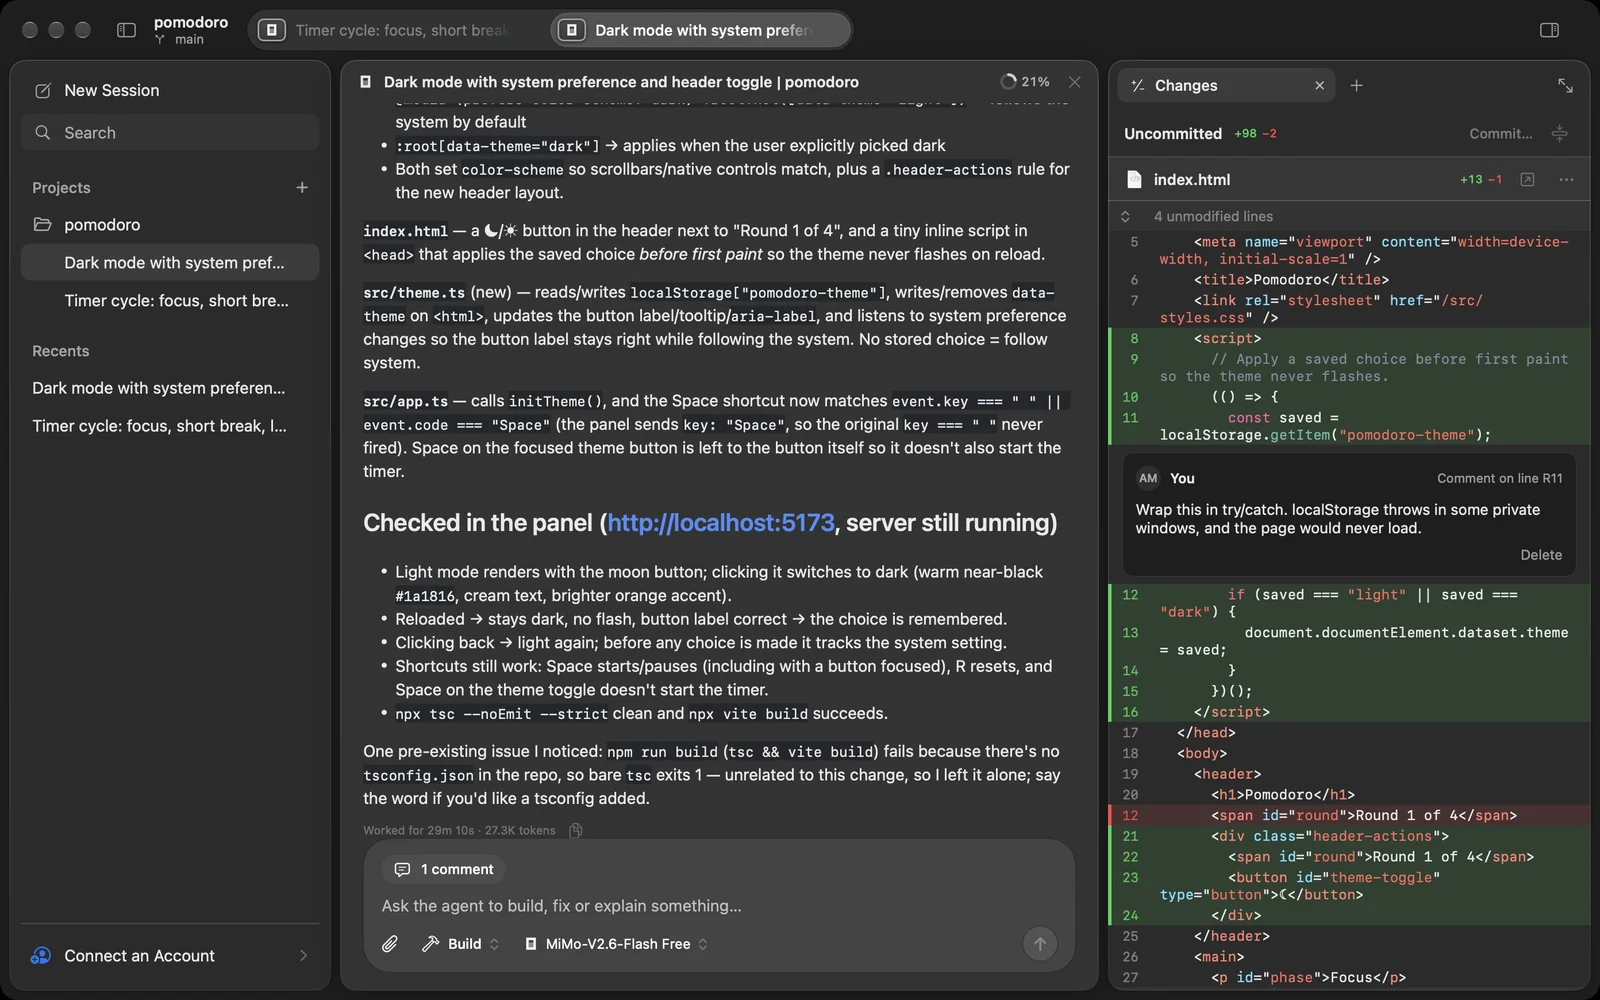
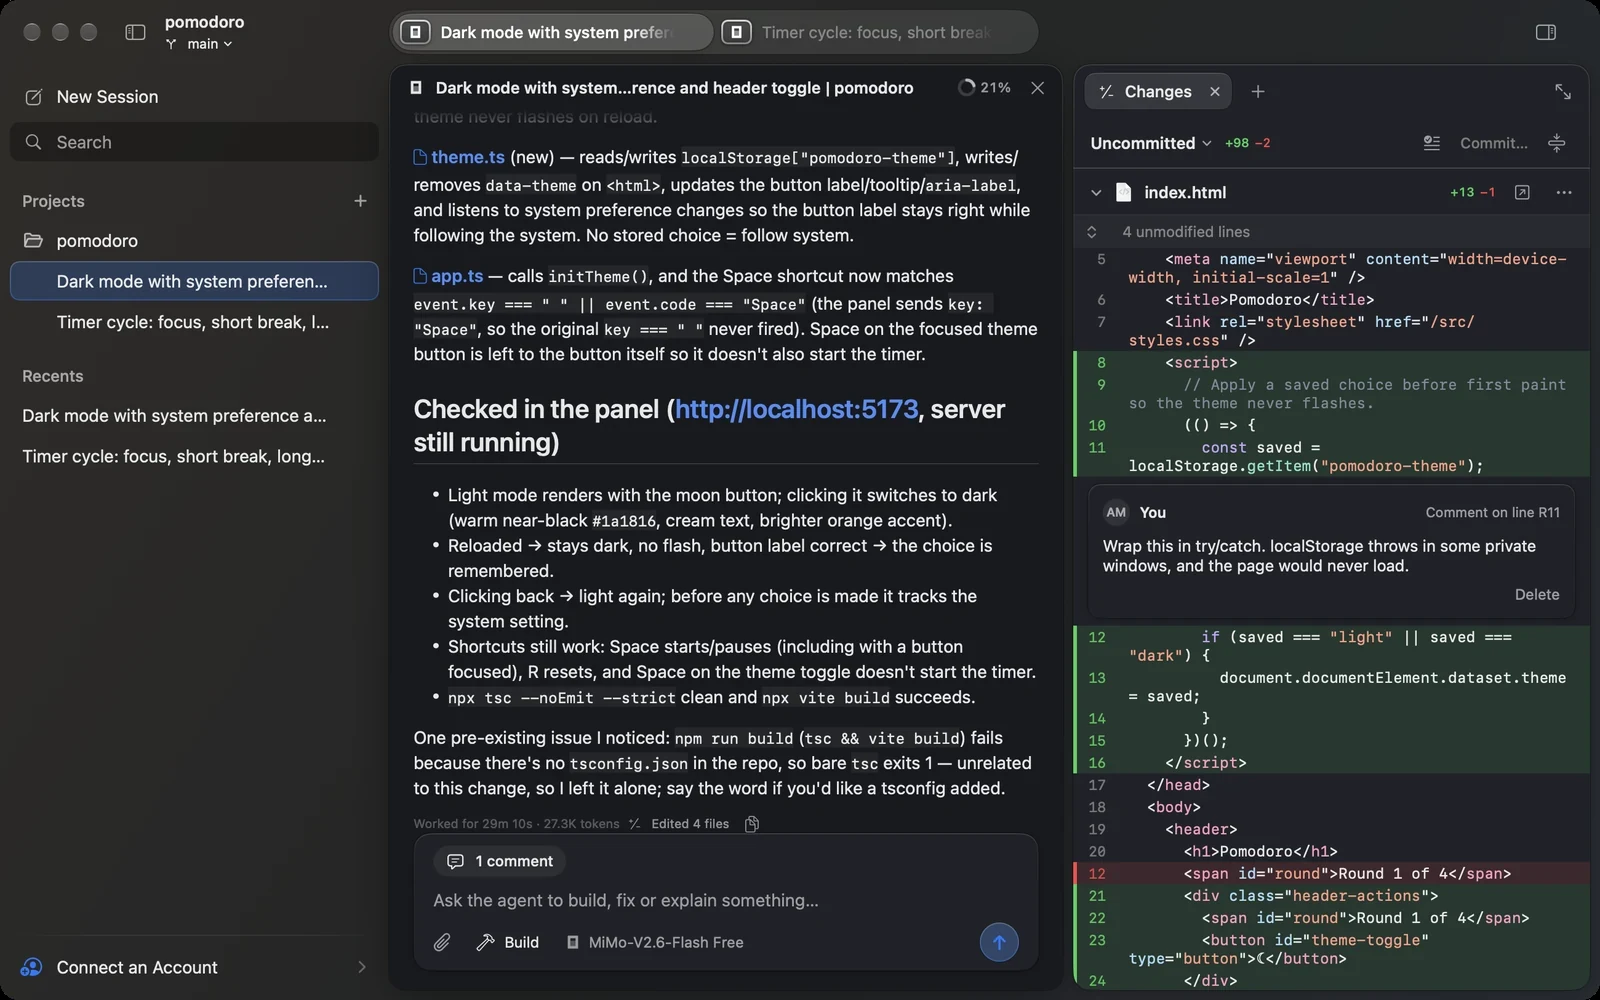
README: screenshots of the refreshed app, and the usage menu following connected accounts

diff --git a/README.md b/README.md
@@ -46,8 +46,8 @@ or start with free models that need no account.
   step.
 - **Attach anything.** Drop, paste or pick files of any kind.
 - **Plans and spend in the menu bar.** Limits with pace and reset times, and
-  spend across Claude, Codex, Copilot, Cursor, OpenCode, OpenRouter, Z.ai and
-  more.
+  spend, for the accounts you connect: GitHub Copilot, ChatGPT (Codex),
+  OpenCode, OpenRouter and Z.ai.
 - **A native app.** SwiftUI and AppKit with Liquid Glass. No Electron.
 
 ## Getting started
@@ -87,9 +87,10 @@ side panel and the usage menu.
   from this repository's releases. Releases are signed with a Developer ID and
   notarized by Apple.
 - **The usage menu** is UsageKit, our fork of
-  [OpenUsage](https://github.com/robinebers/openusage) by Robin Ebers. It reads
-  the logins those tools already keep on your Mac, plus the accounts you
-  connect in Kuvo Code, and renews them when they expire, as those tools would.
+  [OpenUsage](https://github.com/robinebers/openusage) by Robin Ebers. It
+  follows the accounts you connect in Kuvo Code and reads their usage with
+  them; Codex's comes from the Codex app's own sign-in on your Mac. It renews
+  sign-ins when they expire, as those tools would.
 
 ## Build from source
 
